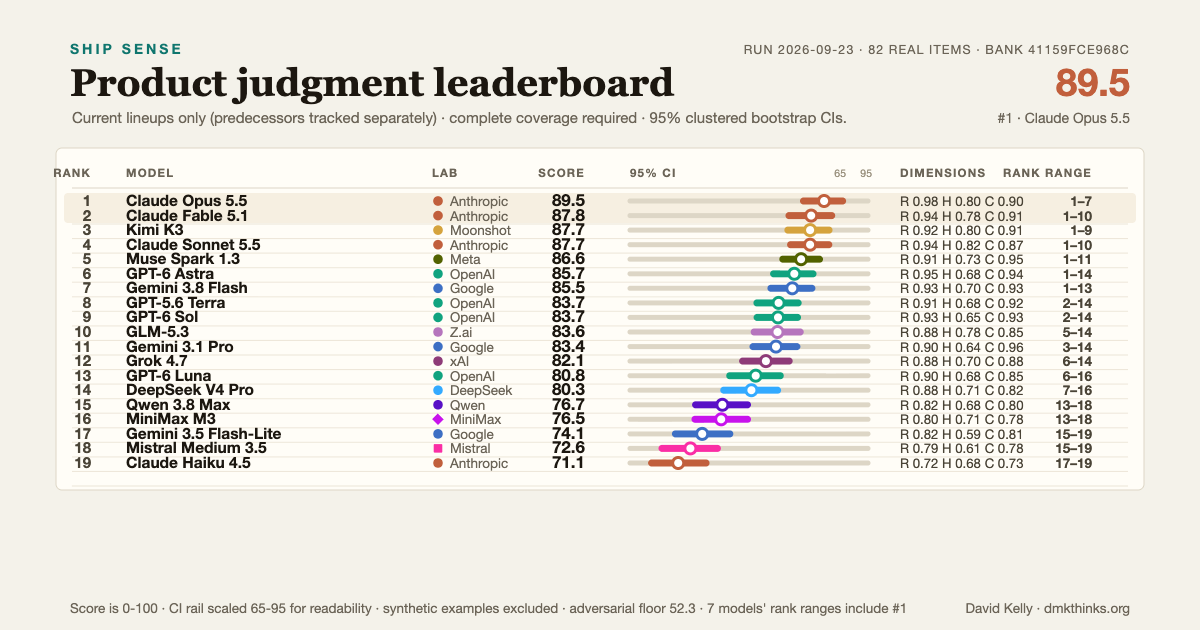
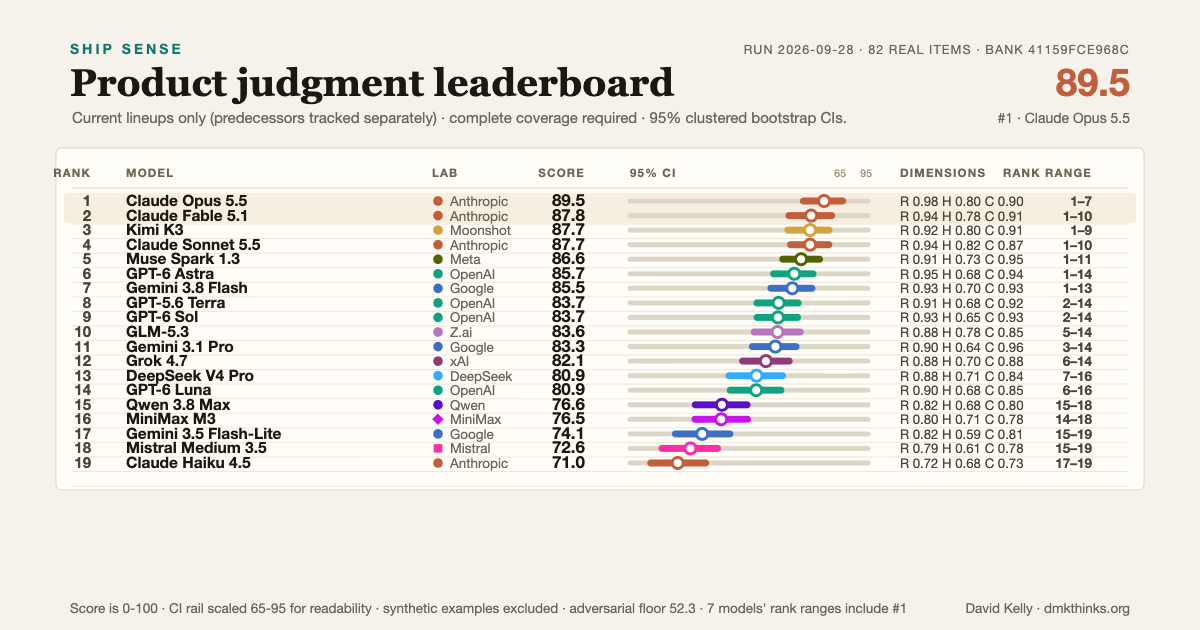
Sync Ship Sense snapshot: v4.2 reading-parity regrade

diff --git a/src/data/ship-sense-snapshot.ts b/src/data/ship-sense-snapshot.ts
@@ -1,5 +1,5 @@
 // GENERATED by scripts/sync-ship-sense.ts — do not edit by hand.
-// Source: https://raw.githubusercontent.com/dkships/ship-sense/main (run 2026-09-23-v4.1, v4.1).
+// Source: https://raw.githubusercontent.com/dkships/ship-sense/main (run 2026-09-28-v4.2, v4.2).
 // Regenerate with `npm run sync:shipsense`; review the diff before committing.
 import type {
   ShipSenseGeneration,
@@ -8,9 +8,9 @@ import type {
 } from "./ship-sense";
 
 export const SHIP_SENSE_RUN: ShipSenseRunMeta = {
-  "version": "v4.1",
-  "runId": "2026-09-23-v4.1",
-  "runDate": "2026-09-23",
+  "version": "v4.2",
+  "runId": "2026-09-28-v4.2",
+  "runDate": "2026-09-28",
   "bankItems": 82,
   "modelCount": 22,
   "floor": 52.3,
@@ -32,15 +32,16 @@ export const SHIP_SENSE_RUN: ShipSenseRunMeta = {
     }
   ],
   "decisiveRule": "bh",
-  "decisivePairs": 148,
+  "decisivePairs": 149,
   "totalPairs": 231,
   "scoringDates": [
     {
-      "date": "2026-09-23",
+      "date": "2026-09-28",
       "labels": [
         "Claude Opus 5.5",
         "Claude Fable 5.1",
         "Kimi K3",
+        "Claude Sonnet 5.5",
         "Muse Spark 1.3",
         "GPT-6 Astra",
         "Gemini 3.8 Flash",
@@ -49,8 +50,8 @@ export const SHIP_SENSE_RUN: ShipSenseRunMeta = {
         "GLM-5.3",
         "Gemini 3.1 Pro",
         "Grok 4.7",
-        "GPT-6 Luna",
         "DeepSeek V4 Pro",
+        "GPT-6 Luna",
         "Qwen 3.8 Max",
         "MiniMax M3",
         "Gemini 3.5 Flash-Lite",
@@ -59,12 +60,6 @@ export const SHIP_SENSE_RUN: ShipSenseRunMeta = {
         "GPT-5.6 Sol",
         "Claude Sonnet 5",
         "GPT-5.6 Luna"
-      ]
-    },
-    {
-      "date": "2026-09-28",
-      "labels": [
-        "Claude Sonnet 5.5"
       ]
     }
   ]
@@ -79,7 +74,7 @@ export const SHIP_SENSE_LINEUP: ShipSenseModelRow[] = [
     "rankLo": 1,
     "rankHi": 7,
     "pFirst": 0.7785,
-    "testedOn": "v4.1",
+    "testedOn": "v4.2",
     "score": 89.5,
     "lo": 86.9,
     "hi": 91.8,
@@ -97,7 +92,7 @@ export const SHIP_SENSE_LINEUP: ShipSenseModelRow[] = [
     "rankLo": 1,
     "rankHi": 10,
     "pFirst": 0.077,
-    "testedOn": "v4.1",
+    "testedOn": "v4.2",
     "score": 87.8,
     "lo": 85,
     "hi": 90.4,
@@ -115,7 +110,7 @@ export const SHIP_SENSE_LINEUP: ShipSenseModelRow[] = [
     "rankLo": 1,
     "rankHi": 9,
     "pFirst": 0.1084,
-    "testedOn": "v4.1",
+    "testedOn": "v4.2",
     "score": 87.7,
     "lo": 84.9,
     "hi": 90.1,
@@ -133,7 +128,7 @@ export const SHIP_SENSE_LINEUP: ShipSenseModelRow[] = [
     "rankLo": 1,
     "rankHi": 10,
     "pFirst": 0.033,
-    "testedOn": "v4.1",
+    "testedOn": "v4.2",
     "score": 87.7,
     "lo": 85.2,
     "hi": 90.1,
@@ -151,7 +146,7 @@ export const SHIP_SENSE_LINEUP: ShipSenseModelRow[] = [
     "rankLo": 1,
     "rankHi": 11,
     "pFirst": 0.0019,
-    "testedOn": "v4.1",
+    "testedOn": "v4.2",
     "score": 86.6,
     "lo": 84.3,
     "hi": 88.9,
@@ -169,7 +164,7 @@ export const SHIP_SENSE_LINEUP: ShipSenseModelRow[] = [
     "rankLo": 1,
     "rankHi": 14,
     "pFirst": 0.0008,
-    "testedOn": "v4.1",
+    "testedOn": "v4.2",
     "score": 85.7,
     "lo": 83.1,
     "hi": 88.1,
@@ -187,7 +182,7 @@ export const SHIP_SENSE_LINEUP: ShipSenseModelRow[] = [
     "rankLo": 1,
     "rankHi": 13,
     "pFirst": 0.0004,
-    "testedOn": "v4.1",
+    "testedOn": "v4.2",
     "score": 85.5,
     "lo": 82.8,
     "hi": 87.9,
@@ -208,7 +203,7 @@ export const SHIP_SENSE_LINEUP: ShipSenseModelRow[] = [
     "rankLo": 2,
     "rankHi": 14,
     "pFirst": 0,
-    "testedOn": "v4.1",
+    "testedOn": "v4.2",
     "score": 83.7,
     "lo": 81,
     "hi": 86.2,
@@ -226,7 +221,7 @@ export const SHIP_SENSE_LINEUP: ShipSenseModelRow[] = [
     "rankLo": 2,
     "rankHi": 14,
     "pFirst": 0,
-    "testedOn": "v4.1",
+    "testedOn": "v4.2",
     "score": 83.7,
     "lo": 81,
     "hi": 86.1,
@@ -244,7 +239,7 @@ export const SHIP_SENSE_LINEUP: ShipSenseModelRow[] = [
     "rankLo": 5,
     "rankHi": 14,
     "pFirst": 0,
-    "testedOn": "v4.1",
+    "testedOn": "v4.2",
     "score": 83.6,
     "lo": 80.7,
     "hi": 86.5,
@@ -262,10 +257,10 @@ export const SHIP_SENSE_LINEUP: ShipSenseModelRow[] = [
     "rankLo": 3,
     "rankHi": 14,
     "pFirst": 0,
-    "testedOn": "v4.1",
-    "score": 83.4,
-    "lo": 80.5,
-    "hi": 86,
+    "testedOn": "v4.2",
+    "score": 83.3,
+    "lo": 80.4,
+    "hi": 85.9,
     "restraint": 0.9,
     "honesty": 0.64,
     "conviction": 0.96,
@@ -280,7 +275,7 @@ export const SHIP_SENSE_LINEUP: ShipSenseModelRow[] = [
     "rankLo": 6,
     "rankHi": 14,
     "pFirst": 0,
-    "testedOn": "v4.1",
+    "testedOn": "v4.2",
     "score": 82.1,
     "lo": 79.2,
     "hi": 85.1,
@@ -291,15 +286,33 @@ export const SHIP_SENSE_LINEUP: ShipSenseModelRow[] = [
     "priceOut": 6
   },
   {
+    "name": "deepseek-v4-pro",
+    "label": "DeepSeek V4 Pro",
+    "provider": "deepseek",
+    "pos": 13,
+    "rankLo": 7,
+    "rankHi": 16,
+    "pFirst": 0,
+    "testedOn": "v4.2",
+    "score": 80.9,
+    "lo": 77.5,
+    "hi": 84.2,
+    "restraint": 0.88,
+    "honesty": 0.71,
+    "conviction": 0.84,
+    "priceIn": 1.32,
+    "priceOut": 3.96
+  },
+  {
     "name": "gpt-6-luna",
     "label": "GPT-6 Luna",
     "provider": "openai",
-    "pos": 13,
+    "pos": 14,
     "rankLo": 6,
     "rankHi": 16,
     "pFirst": 0,
-    "testedOn": "v4.1",
-    "score": 80.8,
+    "testedOn": "v4.2",
+    "score": 80.9,
     "lo": 77.6,
     "hi": 84,
     "restraint": 0.9,
@@ -309,35 +322,17 @@ export const SHIP_SENSE_LINEUP: ShipSenseModelRow[] = [
     "priceOut": 0.5
   },
   {
-    "name": "deepseek-v4-pro",
-    "label": "DeepSeek V4 Pro",
-    "provider": "deepseek",
-    "pos": 14,
-    "rankLo": 7,
-    "rankHi": 16,
-    "pFirst": 0,
-    "testedOn": "v4.1",
-    "score": 80.3,
-    "lo": 76.8,
-    "hi": 83.6,
-    "restraint": 0.88,
-    "honesty": 0.71,
-    "conviction": 0.82,
-    "priceIn": 1.32,
-    "priceOut": 3.96
-  },
-  {
     "name": "qwen3.8-max",
     "label": "Qwen 3.8 Max",
     "provider": "qwen",
     "pos": 15,
-    "rankLo": 13,
+    "rankLo": 15,
     "rankHi": 18,
     "pFirst": 0,
-    "testedOn": "v4.1",
-    "score": 76.7,
-    "lo": 73.3,
-    "hi": 79.8,
+    "testedOn": "v4.2",
+    "score": 76.6,
+    "lo": 73.2,
+    "hi": 79.7,
     "restraint": 0.82,
     "honesty": 0.68,
     "conviction": 0.8,
@@ -349,10 +344,10 @@ export const SHIP_SENSE_LINEUP: ShipSenseModelRow[] = [
     "label": "MiniMax M3",
     "provider": "minimax",
     "pos": 16,
-    "rankLo": 13,
+    "rankLo": 14,
     "rankHi": 18,
     "pFirst": 0,
-    "testedOn": "v4.1",
+    "testedOn": "v4.2",
     "score": 76.5,
     "lo": 73.2,
     "hi": 79.8,
@@ -370,7 +365,7 @@ export const SHIP_SENSE_LINEUP: ShipSenseModelRow[] = [
     "rankLo": 15,
     "rankHi": 19,
     "pFirst": 0,
-    "testedOn": "v4.1",
+    "testedOn": "v4.2",
     "score": 74.1,
     "lo": 70.7,
     "hi": 77.6,
@@ -388,7 +383,7 @@ export const SHIP_SENSE_LINEUP: ShipSenseModelRow[] = [
     "rankLo": 15,
     "rankHi": 19,
     "pFirst": 0,
-    "testedOn": "v4.1",
+    "testedOn": "v4.2",
     "score": 72.6,
     "lo": 69,
     "hi": 76,
@@ -406,10 +401,10 @@ export const SHIP_SENSE_LINEUP: ShipSenseModelRow[] = [
     "rankLo": 17,
     "rankHi": 19,
     "pFirst": 0,
-    "testedOn": "v4.1",
-    "score": 71.1,
-    "lo": 67.7,
-    "hi": 74.6,
+    "testedOn": "v4.2",
+    "score": 71,
+    "lo": 67.6,
+    "hi": 74.5,
     "restraint": 0.72,
     "honesty": 0.68,
     "conviction": 0.73,
@@ -429,20 +424,20 @@ export const SHIP_SENSE_GENERATIONS: ShipSenseGeneration[] = [
     "hiPts": 9,
     "verdict": "decisive-up",
     "family": "confirmatory",
-    "bench": "v4.1",
+    "bench": "v4.2",
     "earlier": false
   },
   {
     "prevLabel": "GPT-5.6 Luna",
     "currLabel": "GPT-6 Luna",
-    "prevScore": 79,
-    "currScore": 80.8,
-    "deltaPts": 1.9,
-    "loPts": -0.2,
+    "prevScore": 79.1,
+    "currScore": 80.9,
+    "deltaPts": 1.8,
+    "loPts": -0.3,
     "hiPts": 3.9,
     "verdict": "up",
     "family": "confirmatory",
-    "bench": "v4.1",
+    "bench": "v4.2",
     "earlier": false
   },
   {
@@ -455,7 +450,7 @@ export const SHIP_SENSE_GENERATIONS: ShipSenseGeneration[] = [
     "hiPts": -0.9,
     "verdict": "decisive-down",
     "family": "confirmatory",
-    "bench": "v4.1",
+    "bench": "v4.2",
     "earlier": false
   },
   {

diff --git a/src/data/ship-sense-teaser.ts b/src/data/ship-sense-teaser.ts
@@ -1,5 +1,5 @@
 // GENERATED by scripts/sync-ship-sense.ts — do not edit by hand.
-// Source: https://raw.githubusercontent.com/dkships/ship-sense/main (run 2026-09-23-v4.1, v4.1).
+// Source: https://raw.githubusercontent.com/dkships/ship-sense/main (run 2026-09-28-v4.2, v4.2).
 // Regenerate with `npm run sync:shipsense`; review the diff before committing.
 import type { ShipSenseTeaserRow } from "./ship-sense";
 
@@ -19,7 +19,7 @@ export const SHIP_SENSE_TEASER: ShipSenseTeaserRow[] = [
 ];
 
 export const SHIP_SENSE_TEASER_RUN = {
-  "version": "v4.1",
+  "version": "v4.2",
   "bankItems": 82,
   "modelCount": 22,
   "currentCount": 19
